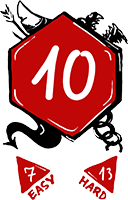
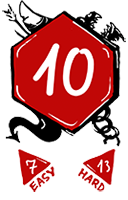
Finalize Timer and Target rework

diff --git a/css/icrpg.css b/css/icrpg.css
@@ -739,6 +739,7 @@ input::-moz-selection {
   background-size: contain;
   background-position-x: 1px;
   justify-content: center;
+  background-color: #888888;
 }
 
 #icrpg-globalDC .container.target-11 {
@@ -850,6 +851,7 @@ input::-moz-selection {
   font-size: 72px;
   color: #dc0000;
   line-height: 105px;
+  text-align: center;
 }
 
 
